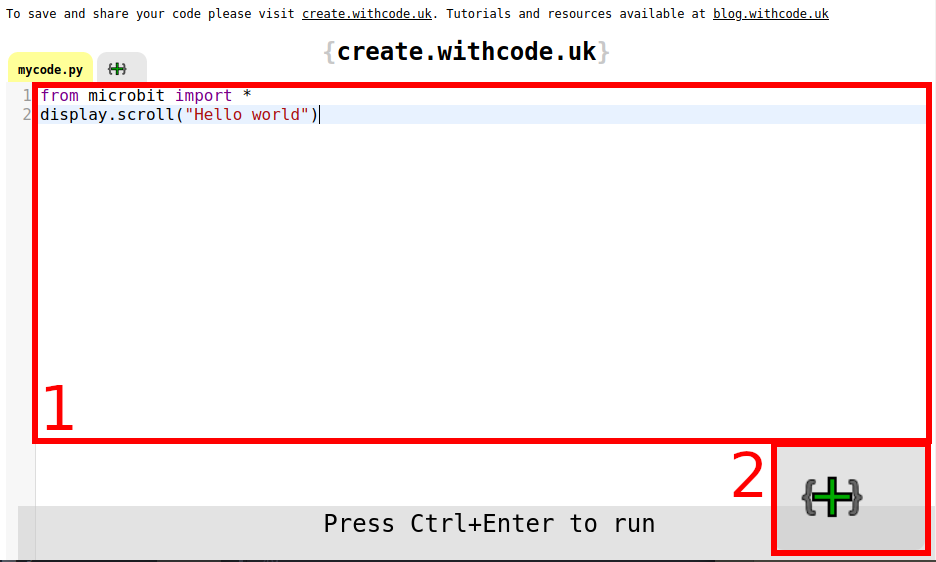
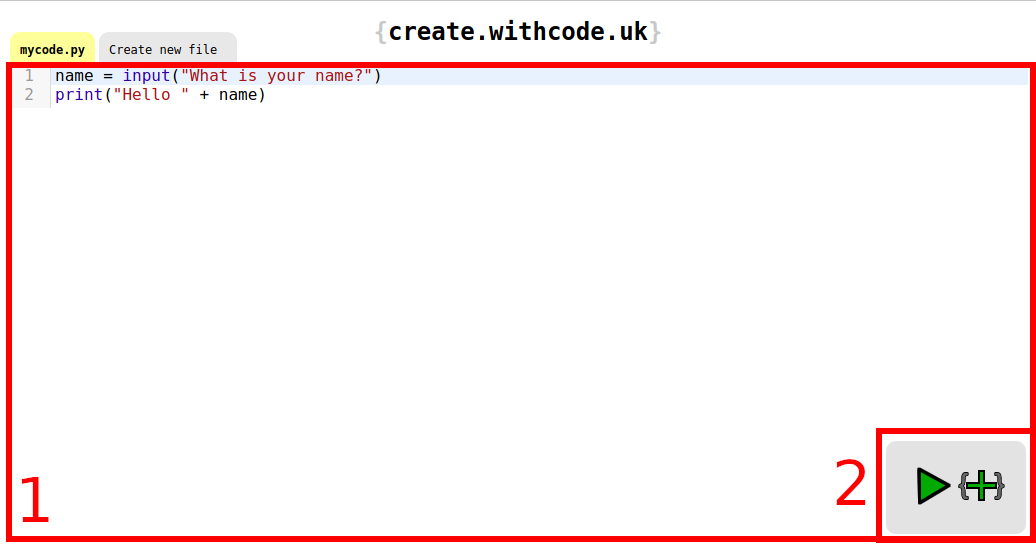
microbit snake updates + less pagination
Alt text improvements
Extra copyright
dfn css

Changed region(s): [[0.0, 0.0, 1.0, 1.0]]

diff --git a/pelican-hyde/static/css/style.css b/pelican-hyde/static/css/style.css
@@ -38,3 +38,8 @@ video {
   width: 100%;
   height: auto;
 }
+
+dfn {
+  text-decoration: underline dotted;
+  font-weight: bold;
+}

diff --git a/pelicanconf.py b/pelicanconf.py
@@ -53,7 +53,7 @@ SOCIAL = (('twitter', 'http://twitter.com/notexactlyawe'),
         ('github', 'https://github.com/notexactlyawe'),
         ('flickr', 'https://www.flickr.com/photos/rotor132'))
 
-DEFAULT_PAGINATION = 7
+DEFAULT_PAGINATION = 20
 
 # Uncomment following line if you want document-relative URLs when developing
 #RELATIVE_URLS = True

diff --git a/content/microbit-snake.md b/content/microbit-snake.md
@@ -12,7 +12,7 @@ By the end of this tutorial, you'll have built your very own game and learned no
 
 Below is a preview of what we'll be building.
 
-<video autoplay loop muted playsinline src="/images/microbitsnake/snakepreview.mp4"></video>
+<video autoplay loop muted playsinline src="/images/microbitsnake/snakepreview.mp4">Snake game running on the BBC micro:bit</video>
 
 ## Pre-requisites
 
@@ -26,7 +26,7 @@ With that out the way, let's get started.
 
 ## What is a micro:bit?
 
-A [micro:bit](https://microbit.org/) is a tiny computer that you can program in Python. It comes with an LED grid (for a screen), an accelerometer (to detect motion), electrical outputs (for controlling motors, lights etc) and a bunch of other cool features. They're also pretty cheap, and programming them is as simple as dragging a file to a USB stick.
+A [micro:bit](https://microbit.org/) is a tiny computer that you can program in Python. It comes with an LED grid (for a screen), an accelerometer (to detect motion), electrical outputs (for controlling motors, lights etc) and a bunch of other cool features. They're also pretty cheap (£20/$20 at time of writing on Amazon), and programming them is as simple as dragging a file to a USB stick.
 
 ![A micro:bit](/images/microbitsnake/microbit.svg)
 
@@ -38,7 +38,9 @@ Whether you have a micro:bit or not, the first step is to open the [create.withc
 
 ![create.withcode editor](/images/microbitsnake/createwithcode.png)
 
-Most of the screen (1) is taken up with the editor. This is where you'll put your code. In the lower right corner (2) is a "+" button. When you click this, you'll get a list of options, including one to run your code which looks like a play button. Alternatively, you can run your code by pressing `Ctrl`+`Enter`.
+Most of the screen (1) is taken up with the editor. This is where you'll put your code. In the lower-right corner (2) is a button to run your code which looks like a green triangle. Alternatively, you can run your code by pressing `Ctrl`+`Enter`.
+
+Your editor will auto-backup your code to your computer. You can access these backups by clicking the "+" button in the lower-right corner then clicking the button that looks like a clock.
 
 Running your code will produce a pop-up that looks like the below.
 
@@ -52,9 +54,9 @@ Before we start looking at some code, let's take a quick detour to look at the g
 
 ## Snake
 
-Fun fact - up until recently you could go to Google, search for "snake", and a snake game would appear. It doesn't appear for me any more, but you can still play it [here](https://www.google.com/fbx?fbx=snake_arcade). Below you can see it in action.
+Fun fact - if you go to Google and search for "snake", a snake game should appear. Just in case it doesn't appear for you, you can play it [here](https://www.google.com/fbx?fbx=snake_arcade). Below you can see it in action.
 
-<video autoplay loop muted playsinline src="/images/microbitsnake/snakedemo.mp4"></video>
+<video autoplay loop muted playsinline src="/images/microbitsnake/snakedemo.mp4">Google Snake game demo</video>
 
 This is a good example of a snake game. It has all the necessary components:
 
@@ -82,7 +84,7 @@ class Snake:
 ...
 ```
 
-At the very top of the file is an import. This is just a way of saying that we want to use some other code in our own. In this case, the other code we're using is the `microbit` library, which allows us to control various components of the micro:bit including the display and accelerometer.
+At the very top of the file is an import. An import allows us to use code someone else has written in our own script. In this case, the other code we're using is the `microbit` library, which allows us to control various components of the micro:bit including the display and accelerometer.
 
 Skipping the class definition for now, at the bottom of the file is our game loop.
 
@@ -94,7 +96,7 @@ while True:
     sleep(500)
 ```
 
-The game loop is the entry point for the game (the first bit of code to be executed). It defines a series of actions that we do repeatedly in order to make the game work. In this case, we get some input from the user, update the game state accordingly and then re-draw the screen. Updating the screen twice a second feels about right, and so at the end we sleep for 500 milliseconds (half a second).
+The game loop is the entry point for the game (the first bit of code to be executed). It defines a series of actions that we do repeatedly in order to make the game work. In this case, we get some input from the user, update the <dfn title="The state of a program is another word for its variables">game state</dfn> accordingly and then re-draw the screen. Updating the screen twice a second feels about right, and so at the end we sleep for 500 milliseconds (half a second).
 
 The functions called in the game loop are part of the Snake class, which is defined above the game loop.
 
@@ -127,7 +129,7 @@ A class is a handy way of keeping some state, like the position of our snake, al
     You may notice that it takes an argument, `self`. This argument is a Python requirement for functions that are part of a class, and represents the instance of the class. This means we can use it to access the state that's part of the class.
 
  - `handle_input(self)`: This function gets input from the user and uses it to change the direction of the snake. We'll be using the accelerometer for this which means that the user will be tilting the device to make the snake move. Again, this function takes `self` since Python requires it to.
- - `update(self)`: Once we have the direction that the user wants the snake to move, we can update the state of the game. This means moving the snake, "eating" food and ending the game.
+ - `update(self)`: Once we have the direction that the user wants the snake to move, we can update the game state. This means moving the snake, "eating" food and ending the game.
  - `draw(self)`: The `draw` function allows us to see the game state on the screen. In this function we'll be lighting up LEDs to represent the snake and the food.
 
 Below the `Snake` class definition, we create an instance of it and assign it to the variable `game`. If you're not yet comfortable with classes and instances, take a look at the expandable panel below.
@@ -212,7 +214,7 @@ Lists are a way to store multiple values in the same variable in Python. If you 
 
 On the front of a micro:bit is a grid of LEDs. When drawing something on the screen, we need a way to describe individual LEDs within this grid so that we know which one to light up. This is where the co-ordinate system comes in.
 
-![The micro:bit co-ordinate system](/images/microbitsnake/displaycoords.svg)
+![Diagram of the micro:bit co-ordinate system](/images/microbitsnake/displaycoords.svg)
 
 Display co-ordinates on the micro:bit work a little like the graphs you may have plotted in school. There's an X axis that goes from left to right and a Y axis that goes from top to bottom. The main difference from the graphs in school is that the Y axis increases going down (towards the pins) whereas in school it would have increased going up.
 
@@ -229,7 +231,7 @@ self.direction =
 self.snake = [[2, 2]]
 # food is the co-ords of the current food
 self.food =
-# whether or not to end the game, used after update
+# whether or not to end the game (boolean)
 self.end =
 ```
 
@@ -267,7 +269,7 @@ So what do we need to draw on the screen? Thinking back to our Google Snake exam
 
 Ideally, then, we need a function to light up an individual LED using its co-ordinates. The snake and the food are both stored using co-ordinates, so if we can draw these on one at a time then we'll have completed our `draw` function.
 
-The micro:bit offers us a number of different ways to [draw to the screen](https://microbit-micropython.readthedocs.io/en/latest/display.html), including one that does what we need. `display.set_pixel(x, y, value)` will set the pixel at `[x, y]` to the intensity `value`. `value` can be between 0 and 9, where 0 is off and 9 is fully on.
+The micro:bit offers us a number of different ways to [draw to the screen](https://microbit-micropython.readthedocs.io/en/latest/display.html), including one that does what we need. `display.set_pixel(x, y, value)` will set the pixel at `[x, y]` to the level of brightness `value`. `value` can be between 0 and 9, where 0 is off and 9 is fully on.
 
 Now that we have a function to turn on a pixel, we can start to fill in our `draw` function.
 
@@ -341,7 +343,7 @@ If you want to run the code on your physical micro:bit, click the "Download HEX"
 
 You should see something that looks like the below. If so, well done! If not, go back and check the solutions match your code exactly. Whitespace matters in Python as well, so check that carefully.
 
-![Drawing to the screen](/images/microbitsnake/drawingtoscreen.svg)
+![Snake game state being drawn to the screen](/images/microbitsnake/drawingtoscreen.svg)
 
 Our snake is in the centre of the screen as a bright dot, and our food is at the left of the screen as a less bright dot. Yours might be in different positions depending on what you chose in [Creating the game state](#your-turn-1-filling-in-the-state). The next step is to make the snake move.
 
@@ -349,9 +351,9 @@ Our snake is in the centre of the screen as a bright dot, and our food is at the
 
 To understand how to move the snake, let's take a look at an example.
 
-<video autoplay loop muted playsinline src="/images/microbitsnake/calcheadcuttail.mp4"></video>
+<video autoplay loop muted playsinline src="/images/microbitsnake/calcheadcuttail.mp4">Animation showing how the snake moves.</video>
 
-The image shows a snake before and after moving down one cell. At first glance, moving the snake in this situation looks like it would be complicated, especially since it moves around a corner. Luckily for us though, it only consists of two actions.
+The animation shows a snake before and after moving down one cell. At first glance, moving the snake in this situation looks like it would be complicated, especially since it moves around a corner. Luckily for us though, it only consists of two actions.
 
 1. Calculate the new head
 2. Cut the tail off
@@ -405,7 +407,7 @@ The most difficult step here will be figuring out what to do for each direction.
 new_head = list(self.snake[-1])
 ```
 
-<details><summary>What is the really annoying bug?</summary>
+<details><summary>What is the really annoying bug? (optional)</summary>
 <p>
 If you don't copy the head of the snake, then you will modify the existing head as well as creating a new one. Let's illustrate this with an example:
 
@@ -488,7 +490,7 @@ def update(self):
 
 We're now ready to run this again, and our snake should now move!
 
-<video autoplay loop muted playsinline src="/images/microbitsnake/microbiterror.mp4"></video>
+<video autoplay loop muted playsinline src="/images/microbitsnake/microbiterror.mp4">Demonstration of the wrapping error with the snake moving code.</video>
 
 Except, we get an error. The error on the simulator isn't very helpful, but on the micro:bit it makes more sense.
 
@@ -502,7 +504,7 @@ We could fix this by ending the game if the snake goes out of bounds, but on a s
 
 Wrapping just means that if the snake hits one side of the screen, then it should appear on the other side of the screen.
 
-<video autoplay loop muted playsinline src="/images/microbitsnake/wrappingdemo.mp4"></video>
+<video autoplay loop muted playsinline src="/images/microbitsnake/wrappingdemo.mp4">Demonstration of wrapping the snake to the other side of the screen.</video>
 
 In the above example, the snake is moving up the screen. After the snake's head reaches `[3, 0]` it goes to `[3, 4]` and appears at the bottom of the screen. The snake continues to move upwards, just starting from the bottom of the screen now. We can implement this behaviour by checking the bounds of the `new_head`.
 
@@ -541,7 +543,7 @@ We add a new `if` statement for both the X co-ordinate and the Y co-ordinate. In
 
 When we add this code to our game, it should look like the below.
 
-<video autoplay loop muted playsinline src="/images/microbitsnake/wrapping.mp4"></video>
+<video autoplay loop muted playsinline src="/images/microbitsnake/wrapping.mp4">The game successfully wrapping the snake round the screen.</video>
 
 ## Getting input
 
@@ -555,19 +557,21 @@ We won't try to understand how accelerometers work here, that would take a post 
 
 In short, an accelerometer can measure the tilt of a device, and we can use this for our game. To see how this will work, take a look at the video below.
 
-<video autoplay loop muted playsinline src="/images/microbitsnake/accelphysdemo.mp4"></video>
+<video autoplay loop muted playsinline src="/images/microbitsnake/accelphysdemo.mp4">Using the accelerometer to move a dot around the micro:bit screen</video>
 
 The dot follows the tilt of the device here. When we tilt the device away from us, the dot heads up the screen (away from us). Tilting the device to the left, right or towards us have similar efects.
 
-### Simulator only: How to use the accelerometer
+### Simulator only: How to test with the accelerometer
 
-> <video autoplay loop muted playsinline src="/images/microbitsnake/accelvirtdemo.mp4"></video>
+<video autoplay loop muted playsinline src="/images/microbitsnake/accelvirtdemo.mp4">Controlling the micro:bit accelerometer with the mouse in the create.withcode editor</video>
 
-> The micro:bit pop-up in the simulator has some tabs along the top for controlling the various components of the micro:bit. One of these tabs controls the accelerometer (seen in the video above). In the tab you will see three sliders, one for each axis, and a checkbox labelled "Move accelerometer with mouse". Go ahead and tick that checkbox.
+The micro:bit pop-up in the simulator has some tabs along the top for controlling the various components of the micro:bit. One of these tabs controls the accelerometer (seen in the video above). In the tab you will see three sliders, one for each axis, and a checkbox labelled "Move accelerometer with mouse". Go ahead and tick that checkbox.
 
-> With the checkbox ticked, you'll notice that moving your mouse over the micro:bit's screen will change the accelerometer values in the sliders. As you head towards the lower-right corner of the micro:bit the values will increase, and as you head towards the upper-left corner they will decrease.
+With the checkbox ticked, you'll notice that moving your mouse over the micro:bit's screen will change the accelerometer values in the sliders. As you head towards the lower-right corner of the micro:bit the values will increase, and as you head towards the upper-left corner they will decrease.
 
 ### <i class="fa fa-lightbulb-o"></i> Your turn 6: Updating direction
+
+We're working in the `handle_input` function for this section.
 
 The accelerometer will return you values in the X and Y axes using the following functions. We don't care about the Z axis since our screen is 2D.
 
@@ -579,9 +583,9 @@ accelerometer.get_y()
 
 The X axis increases going left to right, and the Y axis increases from top to bottom, just like the screen co-ordinates.
 
-![Accelerometer axes](/images/microbitsnake/acceldir.png)
+![Accelerometer axes on the micro:bit](/images/microbitsnake/acceldir.png)
 
-When deciding what direction to go in, you'll want to take the absolute maximum value of X and Y, so if X was 1700 and Y was -2000, you'd use the Y value and set direction to `"up"`. We're working in the `handle_input` function for this section.
+We'll calculate the direction the user wants to go in by taking the biggest value from X and Y and then seeing if it's positive or negative (see diagram above). Careful though! X and Y can both be negative, so you can't do a simple `X > Y`. To see why, imagine that X was 500 and Y was -1000. Even though Y is a bigger number than X, `X > Y == True` because X is positive.
 
 You may find the absolute function, `abs(x)`, useful.
 
@@ -626,7 +630,7 @@ The user can now tilt the micro:bit to make the snake move! You may notice while
 
 When the snake approaches some food, we want the snake to grow and the food to appear again in another location. Ideally, the process would look like the following animation.
 
-<video autoplay loop muted playsinline src="/images/microbitsnake/food.mp4"></video>
+<video autoplay loop muted playsinline src="/images/microbitsnake/food.mp4">Animation showing the snake eating food and growing</video>
 
 Building our food mechanic can be split into two steps. Detecting and reacting to food being eaten, and then generating new food.
 
@@ -716,7 +720,7 @@ Our snake game is almost finished! The only step left is figuring out how to end
 
 The game of snake ends in two situations. Firstly, if you crash into yourself (or the wall, in some versions) then you lose. Secondly, if you fill the entire grid with your snake then you win.
 
-We'll worry about losing the game for now, and I'll leave winning the game as an extension to you.
+We'll worry about losing the game for now, and I'll leave winning the game as an exercise for you.
 
 ### Loop control
 
@@ -815,3 +819,5 @@ Just because you finished this tutorial doesn't mean you have to stop working on
 Pretty micro:bit SVG images were modified from the [Micro:bit Educational Foundation's GitHub repo](https://github.com/microbit-foundation/microbit-svg/) under the [CC BY-NC-SA 4.0 license](https://creativecommons.org/licenses/by-nc-sa/4.0/). Those images on this page are therefore licensed under the same terms.
 
 All other content on this page is licensed under the <a rel="license" href="http://creativecommons.org/licenses/by/4.0/">CC BY 4.0 license</a>.
+
+The create.withcode editor hosted on my site is courtesy of Pete Dring of [blog.withcode.uk](https://blog.withcode.uk/). It has been slightly modified, hence this tutorial not using the official site.
